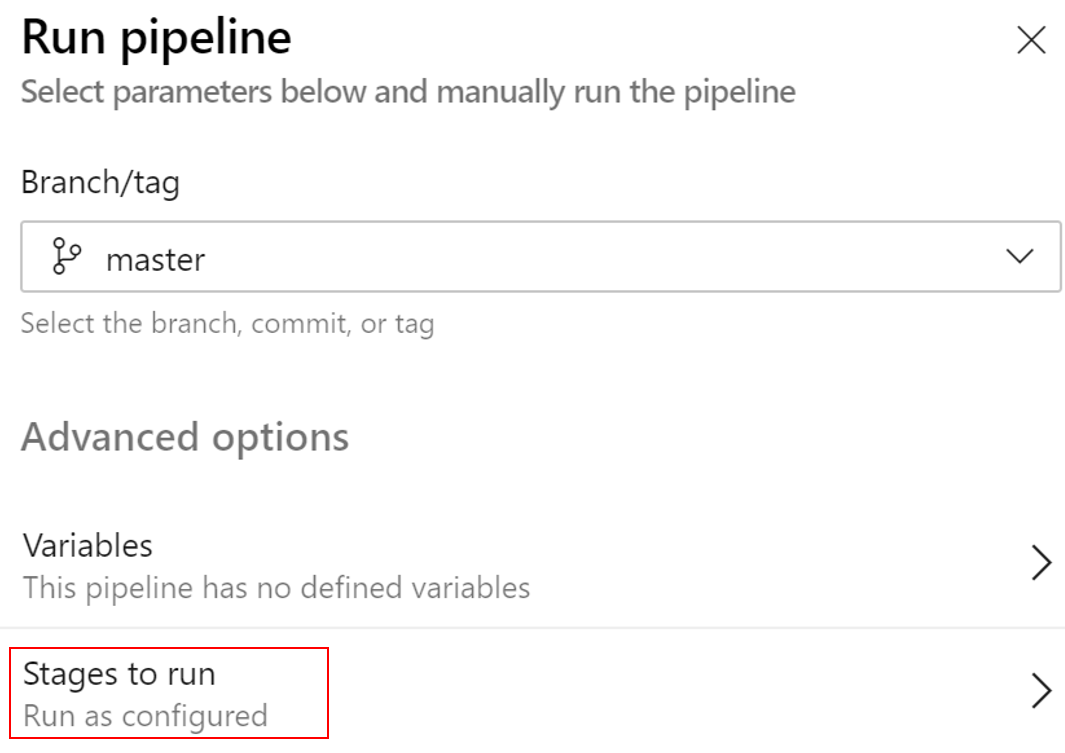
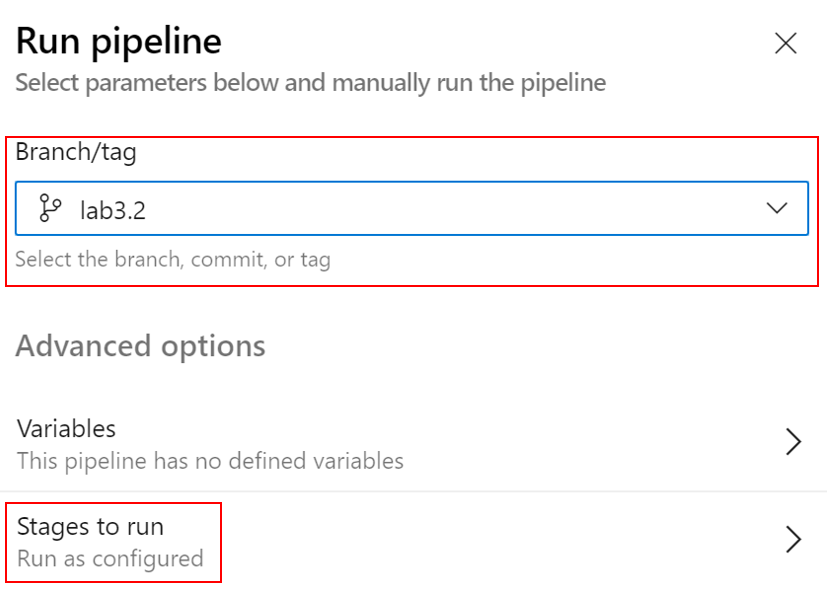
updated screenshots

diff --git a/labs/lab3/lab3.md b/labs/lab3/lab3.md
@@ -233,12 +233,13 @@ To achieve this we're going to add a condition (and a displayname for the task t
 > If you're looking for a specific builtin or predefined variable, please have a look on the list of [predefined variables](https://docs.microsoft.com/azure/devops/pipelines/build/variables?view=azure-devops&tabs=yaml#pipeline-variables) on docs.microsoft.com.
 
 * Click on "Commit"
-* Save our changes to the "master" branch
+* Save our changes to the "lab3.2" branch
 * Click on "Commit" again
 
 * Go back to Pipelines > Pipelines
 * Select our "Multi-stage pipeline with conditions"
-* Select the last job (it's perhaps still running)
+* Click on "Run pipeline"
+* Make sure that the correct branch (3.2) is selected
 * Click on **Build Stage Windows**
 
 Note! There are chances that your job is still queued, during this time keep calm :)
